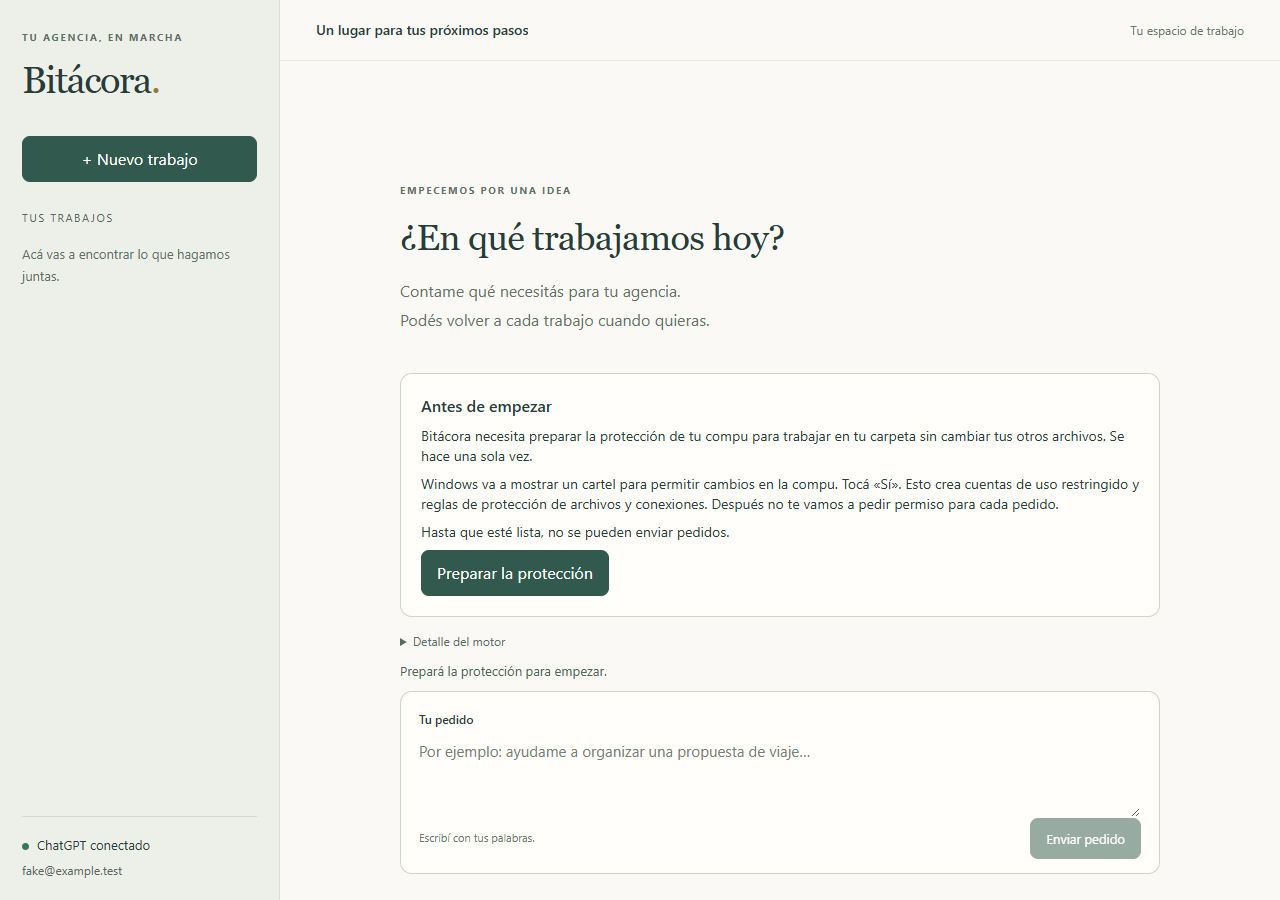
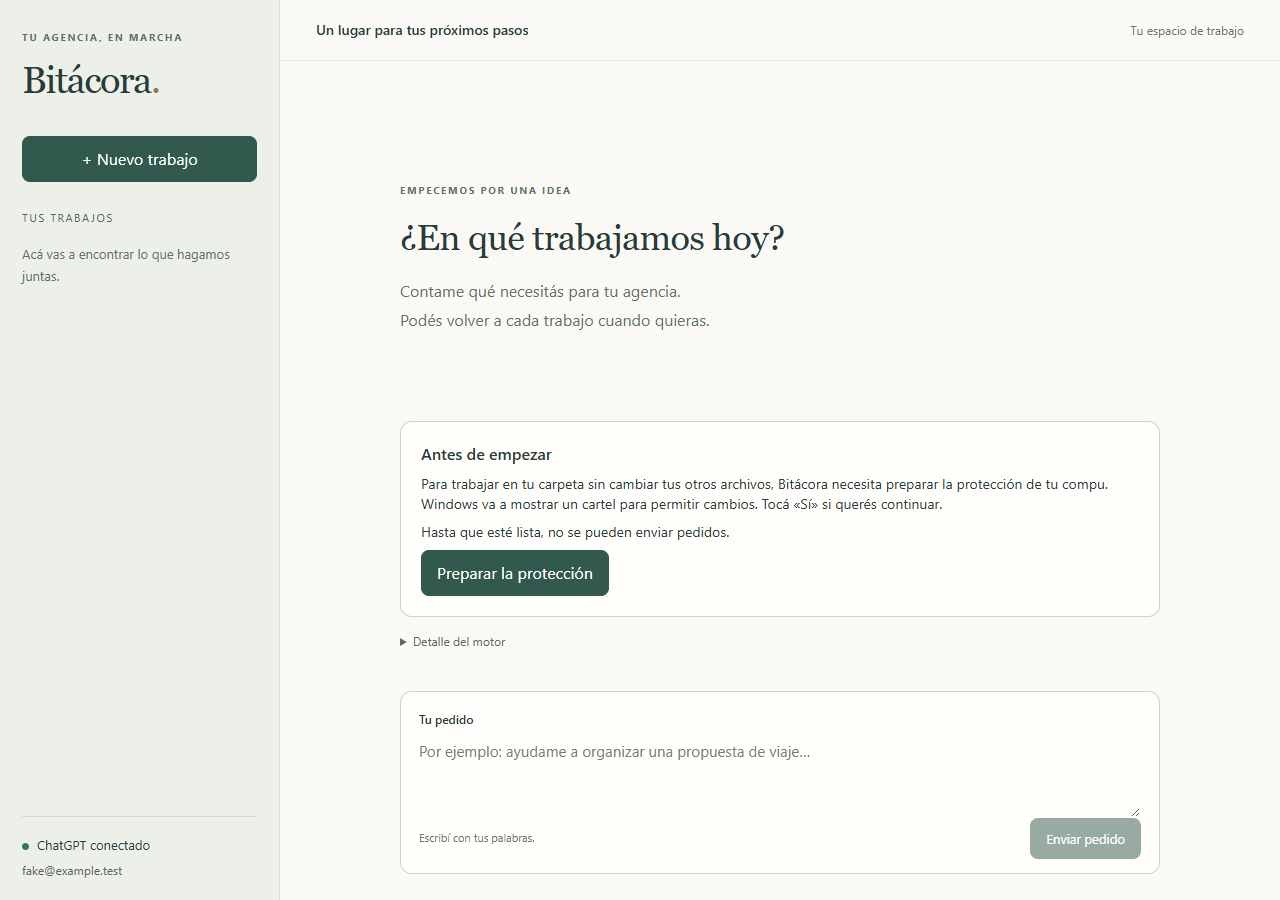
Record protocol sandbox and onboarding verification

Changed region(s): [[0.3125, 0.4356, 0.875, 0.5911]]

diff --git a/scripts/verify-app-server.ts b/scripts/verify-app-server.ts
@@ -1,0 +1,46 @@
+// No model turns or login. Uses only a fresh isolated home and command/exec.
+import { mkdir, readFile, writeFile } from "node:fs/promises";
+import { join, resolve } from "node:path";
+import assert from "node:assert/strict";
+import { execFileSync } from "node:child_process";
+import { CodexEngine } from "../server/src/codex/engine";
+import { codexBinary } from "./codex-runtime.mjs";
+const base = join(process.env.LOCALAPPDATA!, "Bitacora-dev", "pr13", "protocol");
+const home = join(base, "data", "codex"), workspace = join(base, "workspace");
+await mkdir(base, { recursive: true });
+const witness = join(base, "outside-witness.txt");
+await writeFile(witness, "UNCHANGED_PR13");
+const engine = new CodexEngine({home, workspace});
+const events: unknown[] = [];
+engine.subscribe(e => events.push(e));
+// Test-only protocol access: no production command endpoint is exposed.
+const rpc = (method: string, params: unknown) => (engine as any).rpc(method, params);
+const policy = {type: "workspaceWrite", writableRoots: [workspace], networkAccess: false,
+  excludeTmpdirEnvVar: true, excludeSlashTmp: true};
+const records: unknown[] = [];
+try {
+  await engine.start();
+  for (let i = 0; i < 200 && !engine.executionSafety().allowed; i++) await new Promise(r => setTimeout(r, 100));
+  assert.equal(engine.executionSafety().allowed, true);
+  const config = await rpc("config/read", {includeLayers: false});
+  assert.equal(config.config.windows.sandbox, "mxc");
+  const configFile = await readFile(join(home, "config.toml"), "utf8");
+  const quote = (s: string) => "'" + s.replaceAll("'", "''") + "'";
+  for (const [name, script] of [
+    ["inside", `Set-Content -LiteralPath ${quote(join(workspace, "inside.txt"))} -Value CREATED -ErrorAction Stop; Add-Content -LiteralPath ${quote(join(workspace, "inside.txt"))} -Value MODIFIED -ErrorAction Stop; Get-Content -LiteralPath ${quote(join(workspace, "inside.txt"))}`],
+    ["modify-outside", `Set-Content -LiteralPath ${quote(witness)} -Value CHANGED -ErrorAction Stop`],
+    ["delete-outside", `Remove-Item -LiteralPath ${quote(witness)} -ErrorAction Stop`],
+  ]) {
+    const params = {command: ["powershell.exe", "-NoProfile", "-NonInteractive", "-Command", script], cwd: workspace, sandboxPolicy: policy, timeoutMs: 10000};
+    const result = await rpc("command/exec", params);
+    records.push({name, method: "command/exec", params, result});
+    if (name === "inside") assert.equal(result.exitCode, 0);
+    else { assert.notEqual(result.exitCode, 0); assert.match(result.stderr, /UnauthorizedAccess|Access.*denied|acceso.*denegado/i); }
+    assert.equal(await readFile(witness, "utf8"), "UNCHANGED_PR13");
+  }
+  const evidence = {binary: codexBinary(), version: execFileSync(codexBinary(), ["--version"], {encoding:"utf8"}).trim(), home, workspace, events,
+    configFile, effectiveWindowsConfig: config.config.windows, policy, records,
+    inside: await readFile(join(workspace, "inside.txt"), "utf8"), witness: await readFile(witness, "utf8"), modelTurns: 0};
+  await writeFile(resolve("docs/verification/issue12/app-server-pr13.json"), JSON.stringify(evidence, null, 2));
+  console.log("PASS: automatic MXC persisted/reloaded, command/exec inside succeeds, outside modify/delete denied, witness intact, zero model turns");
+} finally { await engine.close(); }

diff --git a/scripts/verify-protection.ts b/scripts/verify-protection.ts
@@ -36,7 +36,7 @@ try {
   await prepare.click();
   await page.getByRole('button', { name: 'Preparando…', exact: true }).waitFor();
   await page.screenshot({ path: join(output, 'preparing.png') });
-  await page.getByRole('button', { name: 'Reintentar preparación' }).waitFor();
+  await page.getByRole('button', { name: 'Reintentar', exact: true }).waitFor();
   await page.screenshot({ path: join(output, 'failed.png') });
   await app.close(); app = undefined;
   delete process.env.BITACORA_FAKE_SETUP_FAIL;
@@ -50,8 +50,37 @@ try {
   await page.reload();
   await page.getByText('Todo listo para empezar.', { exact: true }).waitFor();
   assert.equal(await prepare.count(), 0);
+  await page.getByLabel('Tu pedido', { exact: true }).fill('markdown');
+  await page.getByRole('button', { name: 'Enviar pedido' }).click();
+  await page.locator('.markdown strong').waitFor();
+  assert.equal(await page.locator('.markdown strong').innerText(), 'hola.txt');
+  assert.equal(await page.locator('.markdown li').count(), 2);
+  assert.equal(await page.locator('.markdown em').innerText(), 'prueba');
+  assert.equal(await page.locator('.markdown pre code').innerText(), 'Hola, mundo\n');
+  assert.equal(await page.locator('.markdown a').getAttribute('target'), '_blank');
+  assert.equal(await page.locator('.markdown script').count(), 0);
+  await page.screenshot({ path: join(output, 'markdown.png') });
   await page.setViewportSize({ width: 460, height: 800 });
   await page.screenshot({ path: join(output, 'ready-mobile.png') });
+  await app.close(); app = undefined;
+  process.env.BITACORA_FAKE_CONFIG_DELAY = '2500';
+  let release!: () => void;
+  const gate = new Promise<boolean>(r => { release = () => r(true); });
+  const automatic = new CodexEngine({ home: join(base, 'automatic-home'), workspace: join(base, 'workspace'),
+    binary: process.execPath, args: [resolve('server/test/stdio-server.mjs')], probeProtection: () => gate });
+  const starting = serve(automatic, join(base, 'automatic-data'), 4318, 'http://127.0.0.1:5174');
+  // Start needs to finish before the server listens: delay config persistence
+  // in the peer so the UI observes the real automatic preparing state.
+  release();
+  app = await starting;
+  await page.setViewportSize({ width: 1280, height: 900 });
+  await page.reload();
+  await page.getByText('Preparando todo…', { exact: true }).waitFor();
+  assert.equal(await prepare.count(), 0);
+  await page.screenshot({ path: join(output, 'automatic-preparing.png') });
+  await page.getByText('Todo listo para empezar.', { exact: true }).waitFor();
+  await page.screenshot({ path: join(output, 'automatic-ready.png') });
+  if (process.env.BITACORA_PREVIEW_HOLD) { console.log('PREVIEW READY'); await new Promise(r => setTimeout(r, 50000)); }
   assert.deepEqual(errors, []);
   console.log('PASS: warning before setup, blocked send, progress, failure, retry, persisted readiness, no page errors');
 } finally {

diff --git a/docs/verification/issue12/README.md b/docs/verification/issue12/README.md
@@ -1,5 +1,94 @@
 # Verificación del issue #12
 
+## Revisión del PR #13 y prueba posterior (2026-11-13)
+
+Esta sección actualiza las conclusiones de la primera verificación que se
+conserva abajo como antecedente.
+
+- `npm run typecheck`: PASS.
+- `npm test`, tres corridas finales: **33/33** en cada una, PASS.
+- `npm run build`: PASS.
+- `npx tsx scripts/verify-protection.ts`: PASS con proceso falso y Edge.
+  Se abrieron e inspeccionaron las capturas: `needed.png`, `preparing.png`,
+  `failed.png`, `ready.png`, `ready-mobile.png`, `markdown.png`,
+  `automatic-preparing.png` y `automatic-ready.png`. Preparación automática sin
+  botón ni explicación; permiso anunciado antes del botón; falla recuperable;
+  negrita, itálica, lista, código en línea y bloque, enlace en pestaña nueva y
+  HTML crudo descartado. Sin errores de página. El navegador compartido abrió
+  la app, pero dos capturas fallaron con `Preview automation snapshot timed out
+  after 15000ms`; las verificaciones y capturas se hicieron con Edge local.
+
+### Política por app-server, sin inferencia
+
+Comando reproducible: `npx tsx scripts/verify-app-server.ts` con una carpeta
+`%LOCALAPPDATA%\Bitacora-dev\pr13\protocol` nueva. No hace login ni crea turnos.
+El auxiliar accede al RPC del motor solo para la prueba; no agrega un endpoint
+de comandos a la app. Usa el ejecutable nativo de la dependencia 0.168.0.
+
+[`app-server-pr13.json`](app-server-pr13.json) guarda los estados emitidos por
+la app, la configuración escrita, la selección efectiva leída **después del
+relanzamiento**, cada `command/exec`, sus parámetros, salidas y códigos:
+
+- La app seleccionó MXC automáticamente y escribió `[windows] sandbox = "mxc"`.
+  Tras relanzar, `config/read` devuelve `windows.sandbox=mxc` y readiness listo.
+- La política de `command/exec` coincide con `turn/start`: `workspaceWrite`,
+  raíz de escritura igual a la carpeta de trabajo, red deshabilitada y ambas
+  exclusiones de temporales activas. No hay aprobación ni modo de acceso total.
+- Crear y modificar adentro: código **0**, contenido `CREATED\r\nMODIFIED\r\n`.
+- Modificar afuera: código **1**, `System.UnauthorizedAccessException`.
+- Borrar afuera: código **1**, `RemoveFileSystemItemUnAuthorizedAccess`.
+- El testigo se leyó desde el verificador después de cada intento y siguió
+  conteniendo exactamente `UNCHANGED_PR13`.
+
+Esto demuestra ejecución de comandos por app-server con la política de los
+pedidos y la configuración recargada. **No verifica `apply_patch`**, una decisión
+del modelo ni todas las herramientas de un turno. No se simulan esas pruebas.
+No se ejecutó preparación `elevated`, ni permisos de administrador.
+
+### Prueba con una persona (relato suministrado por el dueño)
+
+En esta máquina tocó “Preparar la protección”; quedó `mxc` y Windows no pidió
+nada. Conectó ChatGPT y un pedido creó `hola.txt` dentro de la carpeta mediante
+un comando real. Funcionó. En un segundo pedido, escribir en el Escritorio,
+el modelo se negó sin intentar ejecutar el comando: **ese pedido no prueba
+el bloqueo del sistema**. Es evidencia informada por el dueño, no repetida en
+esta sesión. Esta sesión hizo **cero pedidos** y no usó login.
+
+### Arranque y cierre
+
+`npm install` agregó `@openai/codex` **exacta 0.168.0** y `react-markdown`.
+`npm run dev` arrancó sin `BITACORA_CODEX_BIN`, con datos y trabajo bajo
+`%LOCALAPPDATA%\Bitacora-dev\pr13\dev`, mientras `codex --version` fuera de npm
+seguía devolviendo `codex-cli 0.169.0`.
+[`dev-process.json`](dev-process.json) registra el proceso nativo seleccionado
+desde `node_modules/@openai/codex-win32-x64`; [`dev-snapshot.json`](dev-snapshot.json)
+registra protección lista y cuenta desconectada. Se cerró con Ctrl+C.
+
+Los verificadores cerraron servidor, Vite, proceso falso y Edge; se comprobó
+que 4317, 5173, 4318 y 5174 no tenían escuchas ni quedaba el app-server del paquete.
+La revisión automática de permisos rechazó el borrado de las rutas verificadas
+`%LOCALAPPDATA%\Bitacora-dev\pr13` y `%LOCALAPPDATA%\Bitacora-dev\issue12`:
+**quedan pendientes de borrar**. No se eludió el rechazo. No se tocó `prueba`,
+el home personal de Codex ni `.csdd/`.
+
+### Cobertura de la revisión
+
+Los puntos 1–3 y 5–8 se confirmaron y corrigieron: fallas de recarga pasan por
+`fail()`, reintentar una consulta o resultado incierto solo consulta, MXC solo
+selecciona alternativa administrativa ante el diagnóstico exacto de indisponibilidad
+de Codex 0.168.0, prueba exitosa cacheada por instancia, timeout recuperable,
+RPC pendientes cancelados y textos visibles fuera del adaptador.
+El punto 4 tenía ya un test independiente del bloqueo del lado de la app;
+se conservó y se agregaron los otros casos pedidos. El punto 9 usa un resolvedor
+común para el binario nativo del paquete, tanto en la app como en el generador.
+La versión se controla contra `server/src/codex/VERSION`.
+
+El diagnóstico reconocido de MXC se contrastó en el código oficial
+[`windows.rs`, tag 0.168.0](https://github.com/openai/codex/blob/rust-v0.168.0/codex-rs/mxc-sandbox/src/windows.rs).
+Timeouts, errores desconocidos y salida inesperada fallan con reintento, sin UAC.
+
+---
+
 Fecha: 2026-11-13. Windows 11 Pro, build 26300.9974. Codex 0.168.0 en una
 copia temporal separada; no se usó el home personal de Codex.
 
